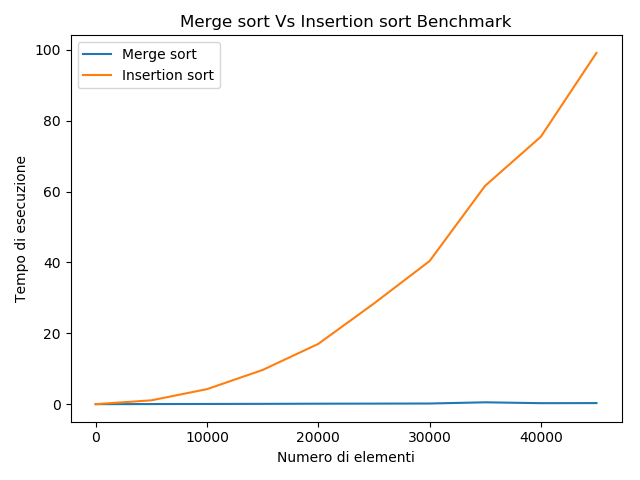
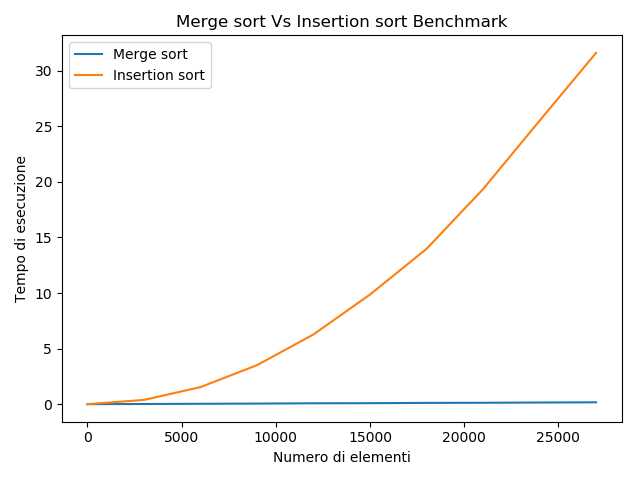
Implementato caricamento su file esterno del data Set

diff --git a/InsertionVsMergeBenchmark.py b/InsertionVsMergeBenchmark.py
@@ -6,9 +6,10 @@ import matplotlib.pyplot as plt
 import statistics
 import pickle
 
-timeLimit = 100 # Tempo Limite
+timeLimit = 1000  # Tempo Limite
 
 #  Insertion Sort  #
+
 
 def Insertion_sort(A):
  start = timer()
@@ -28,12 +29,14 @@ def Insertion_sort(A):
 
 #   Merge Sort   #
 
+
 def MergeSort(A, p, r):
     if p < r :
         q = (p+r) // 2
         MergeSort(A, p, q)
         MergeSort(A, q+1, r)
         Merge(A, p, q, r)
+
 
 def Merge(A,p,q,r):
     n1=q-p+1
@@ -58,19 +61,29 @@ def Merge(A,p,q,r):
 
 #  Creo vettore random di B numeri  #
 
+
 def random_vect(B):
     A=[]
     for i in range(B):
       A.append(random.randint(0, 10000)) #TODO random.seed
     return A
 
-#  dimensione del vettore dei numeri da ordinare
+
 
 def MergeSortMask(A, p, r):
     start = timer()
     MergeSort(A,p,r)
     end = timer()
     return end-start
+
+
+def multiple_random_vect(MultipleNumberVect, step1):
+    numbervect1 = []
+    for i in range(10):
+        numbervect1.append(i*step1)
+    for j in range(len(numbervect1)):
+        MultipleNumberVect.append(random_vect(numbervect1[j]))
+    return MultipleNumberVect
 
 
 ####################################### SIMULAZIONE #####################################
@@ -94,7 +107,7 @@ for j in numbervect:
 
   RI = [] # Repeated Insertion
   RM = [] # Repeated Merge
-  for z in range(1, 5):   #Indico come secondo numero il numero di volte che viene ripetuto l'esperimento + 1
+  for z in range(1, 2):   #Indico come secondo numero il numero di volte che viene ripetuto l'esperimento + 1
         A = random_vect(j)
         B = A.copy()
         RI.append(Insertion_sort(A))
@@ -117,11 +130,22 @@ plt.xlabel('Numero di elementi')
 plt.ylabel('Tempo di esecuzione')
 plt.title('Merge sort Vs Insertion sort Benchmark')
 plt.legend(['Merge sort', 'Insertion sort'])
-
-#plt.axis('equal')
-#plt.axis([0, 0.5, 0, 500])
-
 plt.show()
 
 
-#TODO aggiungere parametri stabili di confronto
+# ATTENZIONE, NON SBLOCCARE QUESTA PARTE: IL DATASET DI BASE VIENE MODIFICATO !!!
+# Standard Data set to compare algs
+
+
+SavedDataSet = []
+multiple_random_vect(SavedDataSet, 3)
+
+pickle_out = open("dataset.pickle", "wb")
+pickle.dump(SavedDataSet, pickle_out)
+pickle_out.close()
+
+#Standard Data set read
+
+pickle_in = open("dataset.pickle", "rb")
+esempio = pickle.load(pickle_in)
+print(esempio)
